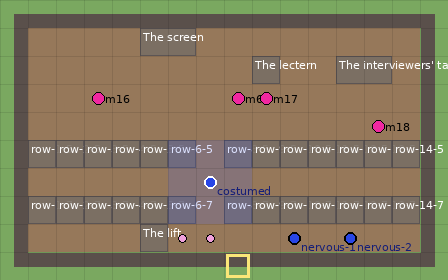
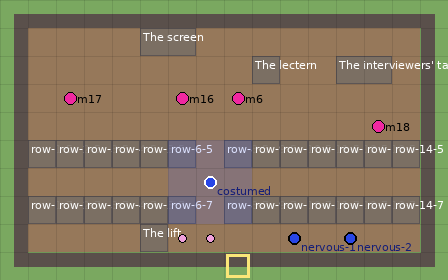
Misaeng Book 1: m17 clear of the PT room's middle, where the scene leaves the lead; handoffs.py reads the cutscene; the costumed intern's label
Testing round 3 on 5cfbf50: Ahn starts 4.3-5.2 tiles from m17. In a room scenes.py stages every
scene in the middle of the floor, so a handoff with no landing spot leaves the new lead there,
not at the beat's spot (which handoffs.py had measured from).
- m17 moved to the west front (11.4 tiles from the room's middle); m18 at the panel (11.1)
- tools/proofs/handoffs.py: for a handoff with no landing spot, the lead's last place in the
  staged cutscene (cut/appear/walk); on the old layout it gives 4.3, as Testing measured
- the PT room's blocker is labelled "An intern in a hard hat" (his line), not the folk default
- misaeng-places.js 22/22; w21 recompiled for seoul

Claude-Session: https://claude.ai/code/session_01EuzjRP4QApHKdh3wM44A7U

Changed region(s): [[0.125, 0.3143, 0.3125, 0.3714], [0.375, 0.3143, 0.5, 0.3714], [0.5625, 0.3143, 0.6562, 0.3714]]

diff --git a/tools/proofs/handoffs.py b/tools/proofs/handoffs.py
@@ -16,6 +16,30 @@ region = json.loads((ROOT / f"data/tk_maps/w{n}/region.json").read_text())
 maps = {p["id"]: json.loads((ROOT / f"data/tk_maps/w{n}/{p['map']}").read_text()) for p in region["places"] if p["id"] != "overworld"}
 q = {x["node"]: x for x in region["quests"]}
 order = [nd["key"].split("-", 1)[1] for nd in W["nodes"]]
+cuts = json.loads((ROOT / f"data/tk_maps/w{n}/cutscenes.json").read_text())["scenes"]
+
+
+def lead_end(scene):
+    """Where the scene's lead (its party's first) stands at its end: the last cut, appear or walk that moves them."""
+    sc = cuts.get(scene)
+    if not sc or not sc.get("party"):
+        return None
+    lead, at = sc["party"][0], None
+
+    def visit(beats):
+        nonlocal at
+        for b in beats:
+            for pl in b.get("place") or []:
+                if pl.get("actor") == lead:
+                    at = tuple(pl["at"])
+            if b.get("actor") == lead and b.get("path"):
+                at = tuple(b["path"][-1])
+            if b.get("beats"):
+                visit(b["beats"])
+    visit(sc["beats"])
+    return at
+
+
 def spot(mid, sid): return next((s for s in maps[mid]["spots"] if s["id"] == sid), None)
 def place_id(name): return next((p["id"] for p in region["places"] if p["id"] == name or p["name"] == name), None)
 bad = 0
@@ -33,7 +57,12 @@ for i, key in enumerate(order[:-1]):
         elif to:
             continue   # arriving by an entry ("from"): the walk from the edge
         else:
-            mid = here["place"]; s = spot(mid, here["spot"]); at, how = (s["x"], s["y"]), "where the scene played"
+            # no landing spot: the new lead is set down where the scene left the lead (in a room, scenes.py stages every
+            # scene in the middle of the floor, not at its spot): the lead's last place in the staged cutscene
+            mid = here["place"]
+            at, how = lead_end(nd["scene"]), "where the scene left the lead"
+            if at is None:
+                s = spot(mid, here["spot"]); at, how = (s["x"], s["y"]), "at the beat's spot (no cutscene)"
         if nxt["place"] != mid: continue
         t = spot(mid, nxt["spot"]); d = math.dist(at, (t["x"], t["y"]))
         flag = "  <-- under 6" if d < 6 else ""

diff --git a/tools/tk_plans_ms.py b/tools/tk_plans_ms.py
@@ -1064,9 +1064,10 @@ def _b1():
             ],
             "One International/pt-room": [
                 {"id": "m6", "at": [8, 3], "node": k(6), "label": "The lectern"},
-                # (beats a handoff passes between, m16 -> m17 -> m18, 8+ tiles apart: the new lead has a walk)
-                {"id": "m16", "at": [3, 3], "node": k(16), "label": "The PT room"},
-                {"id": "m17", "at": [9, 3], "node": k(17), "label": "The lectern"},
+                # (a handoff with no landing spot leaves the new lead where the scene staged them, the middle of the room:
+                #  so m17 and m18, each reached that way, stand 6+ tiles from it, at the west front and by the panel)
+                {"id": "m16", "at": [6, 3], "node": k(16), "label": "The PT room"},
+                {"id": "m17", "at": [2, 3], "node": k(17), "label": "The front of the room"},
                 {"id": "m18", "at": [13, 4], "node": k(18), "label": "The interviewers' table"},
                 {"id": "pt-door", "at": [7, 8], "label": "The PT room's door", "note": "the costumed team's intern stands here before m16"}],
             "One International/textile": [
@@ -1137,7 +1138,7 @@ def _b1():
                 "An intern in a hard hat and overalls — his team's costume for their PT — stands square in the aisle. “Our turn first. "
                 "Unless you can get past me.”",
                 "“…Fine. Go on. Break a leg.”", "The intern in the hard hat is adjusting his costume.",
-                blocks="m16", view=1, map="pt-room", entry=[8, 8], guard=[7, 6]),
+                blocks="m16", view=1, map="pt-room", entry=[8, 8], guard=[7, 6]) | {"label": "An intern in a hard hat"},
         ],
         "objectives": {
             k(1): ("Korea Baduk Association", "Go to the trainees' room. This game decides everything."),
